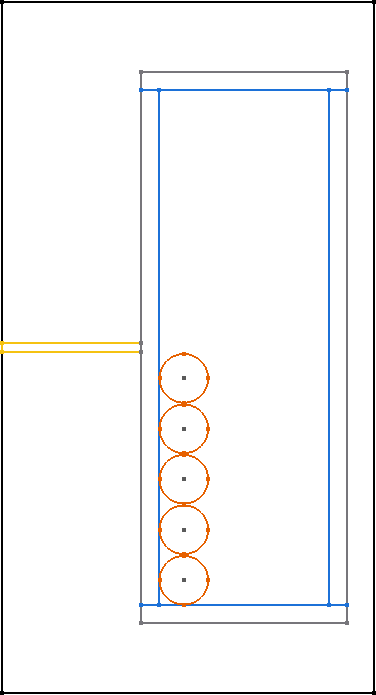
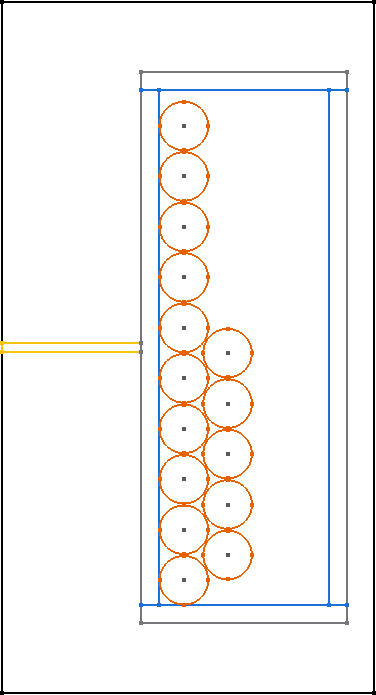
Updated winding type images

diff --git a/femmt/examples/winding_test.py b/femmt/examples/winding_test.py
@@ -14,6 +14,12 @@ inductor_combinations = [
         "ConductorArrangement": fmt.ConductorArrangement.Square
     },
     {
+        "Name": "Single RoundSolid SquareFullWidth",
+        "WindingType": fmt.WindingType.Single,
+        "ConductorType": fmt.ConductorType.RoundSolid,
+        "ConductorArrangement": fmt.ConductorArrangement.SquareFullWidth
+    },
+    {
         "Name": "Single RectangularSolid Full",
         "WindingType": fmt.WindingType.Single,
         "ConductorType": fmt.ConductorType.RectangularSolid,
@@ -62,12 +68,6 @@ transformer_combinations = [
         "WindingScheme": fmt.InterleavedWindingScheme.VerticalStacked,
         "ConductorArrangement": fmt.ConductorArrangement.Hexagonal
     },
-    {
-        "Name": "Single RoundSolid SquareFullWidth",
-        "WindingType": fmt.WindingType.Single,
-        "ConductorType": fmt.ConductorType.RoundSolid,
-        "ConductorArrangement": fmt.ConductorArrangement.SquareFullWidth
-    },
 ]
 
 def run_inductor_simulations(working_directory, combinations):
@@ -104,7 +104,7 @@ def run_inductor_simulations(working_directory, combinations):
         complete = winding_window.split_window(fmt.WindingWindowSplit.NoSplit)
         winding_scheme = combination["WindingScheme"] if "WindingScheme" in combination else None
         wrap_para_type = combination["WrapParaType"] if "WrapParaType" in combination else None
-        complete.set_winding(conductor, 5, winding_scheme, wrap_para_type)
+        complete.set_winding(conductor, 15, winding_scheme, wrap_para_type)
 
         geo.set_winding_window(winding_window)
 
@@ -159,7 +159,7 @@ def run_transformer_simulations(working_directory, combinations):
         winding_window = fmt.WindingWindow(core, isolation)
         if combination["WindingType"] == fmt.WindingType.Interleaved:
             complete = winding_window.split_window(fmt.WindingWindowSplit.NoSplit)
-            complete.set_interleaved_winding(conductor1, 5, conductor2, 5, combination["WindingScheme"], 0.0005)
+            complete.set_interleaved_winding(conductor1, 10, conductor2, 10, combination["WindingScheme"], 0.0005)
         else:
             top, bot = winding_window.split_window(fmt.WindingWindowSplit.HorizontalSplit)
             winding_scheme = combination["WindingScheme"] if "WindingScheme" in combination else None
@@ -171,7 +171,7 @@ def run_transformer_simulations(working_directory, combinations):
 
         name = combination["Name"]
         try:
-            geo.create_model(freq=250000, visualize_before=False, save_png=True)
+            geo.create_model(freq=250000, visualize_before=True, save_png=True)
         except Exception as e:
             print(e)
             not_working.append(name + ": " + str(e))
@@ -187,5 +187,5 @@ if __name__ == "__main__":
     if not os.path.isdir(os.path.join(os.path.dirname(__file__), "images")):
         os.mkdir = os.path.join(os.path.dirname(__file__), "images")
 
-    run_inductor_simulations(working_directory, inductor_combinations)
-    run_transformer_simulations(working_directory, transformer_combinations)
+    # run_inductor_simulations(working_directory, [inductor_combinations[2]])
+    run_transformer_simulations(working_directory, transformer_combinations[0:3])

diff --git a/winding_types.md b/winding_types.md
@@ -2,10 +2,10 @@ In the following table a image of every winding type which is currently implemen
 
 | **Single Square** | **Single Hexagonal** | **Single Full** |
 | --- | --- | --- |
-| <img src="documentation/winding types/Single Square.png" width="250"> | <img src="documentation/winding types/Single Hexagonal.png" width="250"> |  <img src="documentation/winding types/Single Full.png" width="250">
-| **Single FoilHorizontal** | **Single FoilVertical (fixed thickness)** | **Single FoilVertical (interpolate)** |
-| <img src="documentation/winding types/Single FoilHorizontal.png" width="250"> | <img src="documentation/winding types/Single FoilVertical (fixed thickness).png" width="250"> | <img src="documentation/winding types/Single FoilVertical (interpolate).png" width="250">
-| **Single SquareFullWidth** | **Interleaved VerticalStacked (hexagonal)** | **Interleaved VerticalStacked (square)** |
-| <img src="documentation/winding types/Single SquareFullWidth.png" width="250"> | <img src="documentation/winding types/Interleaved VerticalStacked (hexagonal).png" width="250"> | <img src="documentation/winding types/Interleaved VerticalStacked (square).png" width="250">
-| **Interleaved HorizontalAlternating** | 
-| <img src="documentation/winding types/Interleaved HorizontalAlternating.png" width="250"> |
+| <img src="documentation/winding types/Single Square.png" width="250"> | <img src="documentation/winding types/Single Hexagonal.png" width="250"> |  <img src="documentation/winding types/Single Full.png" width="250"> |
+| **Single SquareFullWidth** | **Single FoilHorizontal** | **Single FoilVertical (fixed thickness)** |
+| <img src="documentation/winding types/Single SquareFullWidth.png" width="250"> | <img src="documentation/winding types/Single FoilHorizontal.png" width="250"> | <img src="documentation/winding types/Single FoilVertical (fixed thickness).png" width="250"> |
+| **Single FoilVertical (interpolate)** | **Interleaved HorizontalAlternating** | **Interleaved VerticalStacked (square)** |
+| <img src="documentation/winding types/Single FoilVertical (interpolate).png" width="250"> | <img src="documentation/winding types/Interleaved HorizontalAlternating.png" width="250"> | <img src="documentation/winding types/Interleaved VerticalStacked (hexagonal).png" width="250"> | <img src="documentation/winding types/Interleaved VerticalStacked (square).png" width="250"> | 
+| **Interleaved VerticalStacked (hexagonal)** | 
+| <img src="documentation/winding types/Interleaved VerticalStacked (hexagonal).png" width="250"> |
